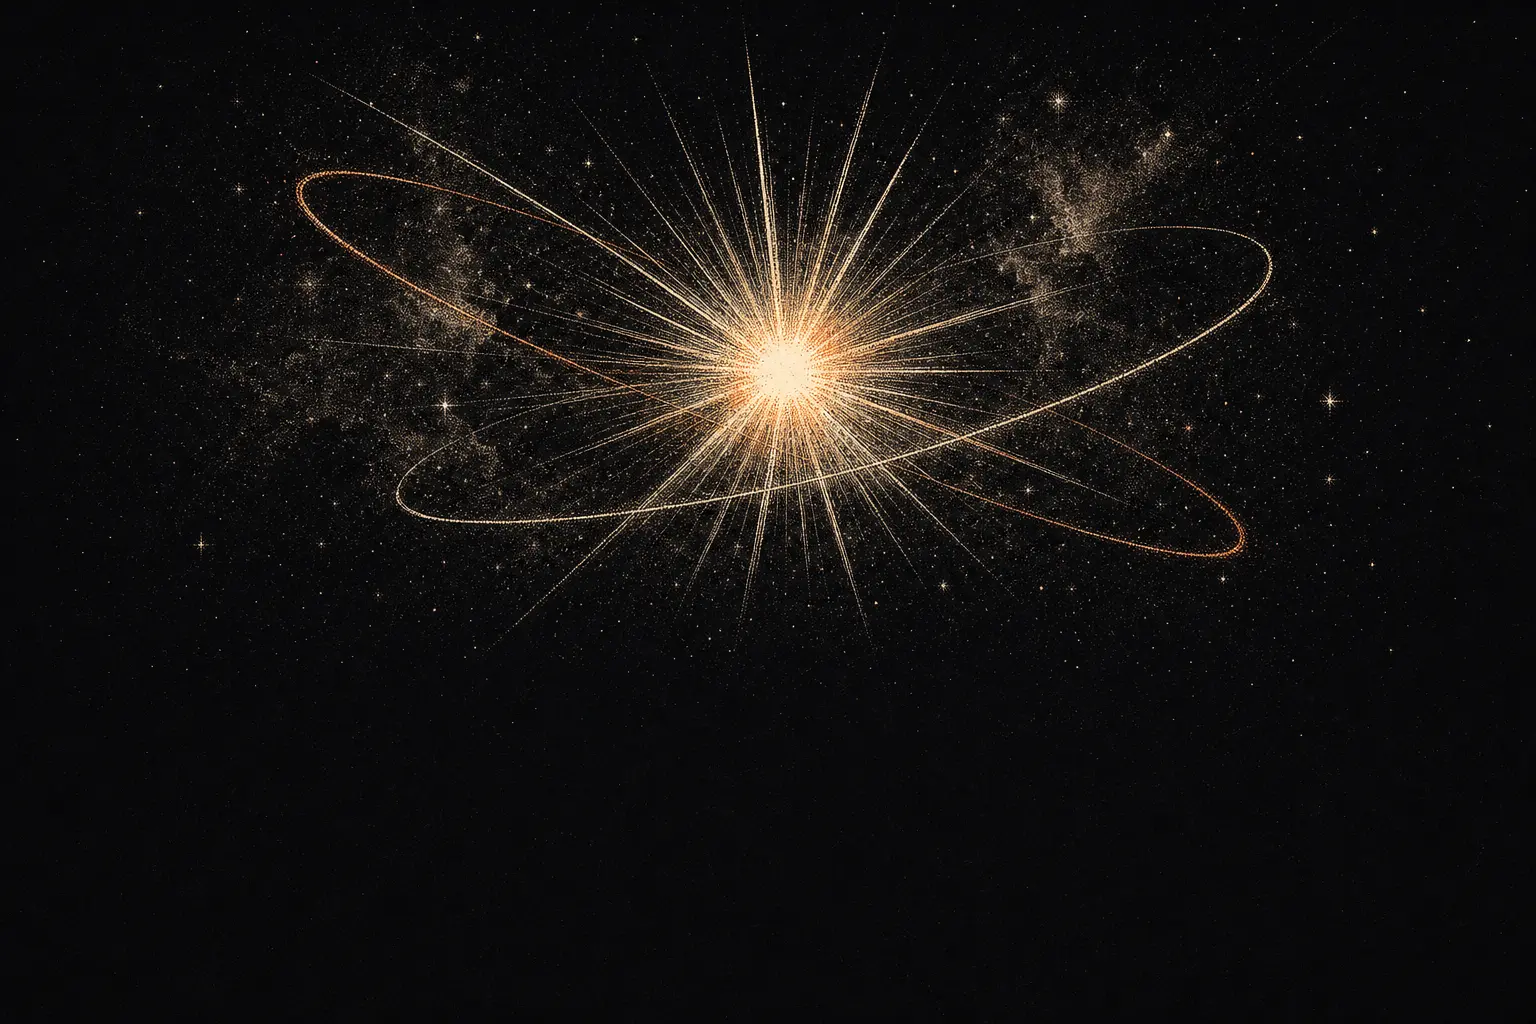
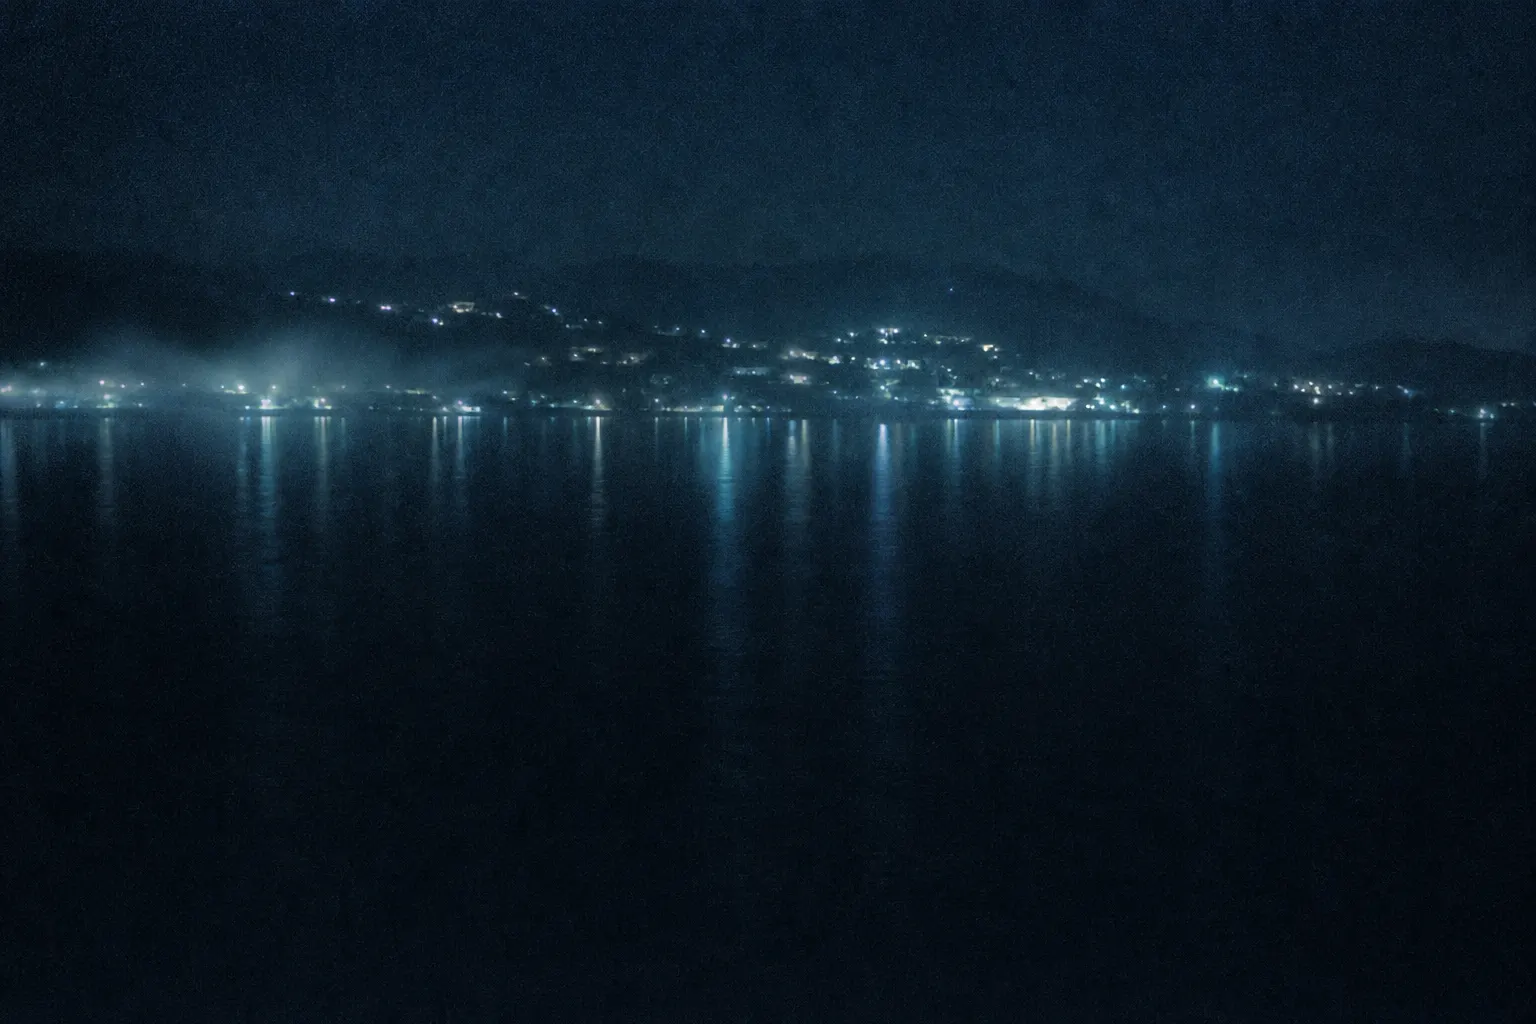
Night Lights theme: misty bay-town artwork, midnight blue + petrol
Gerry Mulligan 'Night Lights' direction replacing the ember supernova:

- New hero artwork: distant lights of a small hillside town across a
  calm dark bay, soft reflections and mist, heavy film grain — deep
  midnight blue/teal, no gold, no stars (96 kB webp, painted once)
- Hero palette: midnight ink (#070b10), cool off-white type, ice-teal
  gradient italic, cool-tinted link underline / ghost border / hints
- Light surface accent: burnt sienna → petrol teal (#2b6777) across
  links, hovers, chips, focus rings; section italics in cool slate

diff --git a/src/input.css b/src/input.css
@@ -32,9 +32,9 @@
     position: relative;
     width: 100%;
     min-height: 100svh;
-    color: #f1ece1;
+    color: #edf2f5;
     isolation: isolate;
-    background: #0b0a09;
+    background: #070b10;
     overflow: hidden;
     display: flex;
     /* Graphic-tee composition: the print owns the upper half, the
@@ -53,8 +53,8 @@
     pointer-events: none;
     background: linear-gradient(
       180deg,
-      rgba(11, 10, 9, 0) 0%,
-      rgba(11, 10, 9, 0.55) 55%,
+      rgba(7, 11, 16, 0) 0%,
+      rgba(7, 11, 16, 0.55) 55%,
       #fbfaf7 100%
     );
     z-index: 3;
@@ -75,7 +75,7 @@
     inset: 0;
     background-image: url("/hero-art.webp");
     background-size: cover;
-    background-position: center 0%;
+    background-position: center 30%;
     animation: hero-breathe 36s ease-in-out infinite alternate;
     will-change: transform;
   }
@@ -92,15 +92,15 @@
     background:
       linear-gradient(
         180deg,
-        rgba(11, 10, 9, 0.1) 0%,
-        rgba(11, 10, 9, 0) 30%,
-        rgba(11, 10, 9, 0.42) 62%,
-        rgba(11, 10, 9, 0.72) 100%
+        rgba(7, 11, 16, 0.25) 0%,
+        rgba(7, 11, 16, 0) 30%,
+        rgba(7, 11, 16, 0.35) 62%,
+        rgba(7, 11, 16, 0.66) 100%
       ),
       radial-gradient(
         ellipse 130% 100% at 50% 0%,
-        rgba(11, 10, 9, 0) 60%,
-        rgba(11, 10, 9, 0.5) 100%
+        rgba(7, 11, 16, 0) 60%,
+        rgba(7, 11, 16, 0.45) 100%
       );
   }
 
@@ -132,7 +132,7 @@
     font-weight: 500;
     letter-spacing: -0.01em;
     font-size: 1.1rem;
-    color: #f1ece1;
+    color: #edf2f5;
     text-decoration: none;
     display: inline-flex;
     align-items: center;
@@ -141,7 +141,7 @@
   .hero-hud-brand .hero-infinity {
     width: 22px;
     height: 14px;
-    stroke: #cfc4ae;
+    stroke: #a9bfcb;
   }
   .hero-hud-nav {
     display: flex;
@@ -179,7 +179,7 @@
     line-height: 1.14;
     letter-spacing: -0.025em;
     margin: 0 0 1rem;
-    color: #f7f3ea;
+    color: #f3f7f9;
   }
   .hero-headline em {
     font-style: italic;
@@ -188,7 +188,7 @@
     display: inline-block;
     padding: 0 0.1em 0.12em 0.02em;
     margin: 0 -0.04em -0.12em 0;
-    background: linear-gradient(120deg, #f3e9d2 0%, #d9b27e 100%);
+    background: linear-gradient(120deg, #e7f0f3 0%, #9cc2cf 100%);
     -webkit-background-clip: text;
     background-clip: text;
     color: transparent;
@@ -198,17 +198,17 @@
   .hero-body {
     font-size: clamp(1rem, 1.5vw, 1.15rem);
     line-height: 1.6;
-    color: rgba(238, 230, 214, 0.7);
+    color: rgba(216, 229, 238, 0.72);
     max-width: 30rem;
     margin: 0 auto;
   }
   .hero-link {
-    color: rgba(248, 243, 232, 0.95);
+    color: rgba(240, 247, 250, 0.95);
     text-decoration: none;
     background-image: linear-gradient(
       90deg,
-      rgba(217, 178, 126, 0.7),
-      rgba(217, 178, 126, 0.25)
+      rgba(146, 186, 200, 0.7),
+      rgba(146, 186, 200, 0.25)
     );
     background-repeat: no-repeat;
     background-size: 100% 1px;
@@ -230,8 +230,8 @@
     align-items: center;
     gap: 0.6rem;
     padding: 0.8rem 1.4rem;
-    color: #161310;
-    background: #f2ede1;
+    color: #0d1318;
+    background: #edf2f5;
     border-radius: 0.6rem;
     font-weight: 500;
     font-size: 0.95rem;
@@ -250,11 +250,11 @@
   .hero-cta--ghost {
     color: rgba(255, 255, 255, 0.85);
     background: transparent;
-    border: 1px solid rgba(238, 226, 200, 0.22);
+    border: 1px solid rgba(196, 218, 228, 0.22);
     box-shadow: none;
   }
   .hero-cta--ghost:hover {
-    border-color: rgba(238, 226, 200, 0.5);
+    border-color: rgba(196, 218, 228, 0.5);
     background: rgba(255, 255, 255, 0.04);
     box-shadow: none;
   }
@@ -268,7 +268,7 @@
     font-size: 0.72rem;
     letter-spacing: 0.28em;
     text-transform: uppercase;
-    color: rgba(232, 222, 200, 0.5);
+    color: rgba(202, 219, 229, 0.5);
     display: inline-flex;
     flex-direction: column;
     align-items: center;
@@ -281,8 +281,8 @@
     height: 34px;
     background: linear-gradient(
       180deg,
-      rgba(232, 222, 200, 0.6),
-      rgba(232, 222, 200, 0)
+      rgba(202, 219, 229, 0.6),
+      rgba(202, 219, 229, 0)
     );
     animation: hero-pulse 2.4s ease-in-out infinite;
   }
@@ -400,7 +400,7 @@
   /* Same italic-gradient treatment as the hero headline but on light. */
   .blog-em {
     font-style: italic;
-    color: #a08b76;
+    color: #7e93a0;
     padding-right: 0.06em; /* italic overhang breathing room */
   }
   .blog-section-sub {
@@ -423,7 +423,7 @@
   }
 
   .blog-link {
-    color: #a8542c;
+    color: #2b6777;
     text-decoration: none;
     background-image: linear-gradient(currentColor, currentColor);
     background-repeat: no-repeat;
@@ -432,7 +432,7 @@
     transition: color 140ms ease, background-size 140ms ease;
   }
   .blog-link:hover {
-    color: #74381c;
+    color: #1b4a55;
     background-size: 100% 2px;
   }
 
@@ -601,11 +601,11 @@
     background: rgba(20, 24, 48, 0.03);
   }
   a.blog-entry-link:hover .blog-entry-title {
-    color: #a8542c;
+    color: #2b6777;
   }
   a.blog-entry-link:hover .blog-entry-arrow {
     transform: translate(3px, -3px);
-    color: #a8542c;
+    color: #2b6777;
   }
   .blog-entry.is-draft .blog-entry-link {
     cursor: default;
@@ -670,7 +670,7 @@
     padding-top: 0.45rem;
   }
   a.press-entry-link:hover .press-outlet {
-    color: #a8542c;
+    color: #2b6777;
   }
   @media (max-width: 640px) {
     .press-entry-link {
@@ -878,8 +878,8 @@
   }
   .post-body h2 { font-size: 1.55rem; }
   .post-body h3 { font-size: 1.25rem; }
-  .post-body a { color: #a8542c; text-decoration: underline; text-decoration-thickness: 1px; text-underline-offset: 3px; }
-  .post-body a:hover { color: #74381c; }
+  .post-body a { color: #2b6777; text-decoration: underline; text-decoration-thickness: 1px; text-underline-offset: 3px; }
+  .post-body a:hover { color: #1b4a55; }
   .post-body code {
     font-family: ui-monospace, SFMono-Regular, Menlo, Consolas, monospace;
     font-size: 0.92em;
@@ -1038,8 +1038,8 @@
     font-size: 0.66rem;
     letter-spacing: 0.22em;
     text-transform: uppercase;
-    color: #a8542c;
-    background: rgba(168, 84, 44, 0.09);
+    color: #2b6777;
+    background: rgba(43, 103, 119, 0.1);
     border-radius: 999px;
   }
   .media-card-title {
@@ -1143,7 +1143,7 @@
     font-size: 0.68rem;
     letter-spacing: 0.22em;
     text-transform: uppercase;
-    color: #a8542c;
+    color: #2b6777;
     background: rgba(20, 24, 48, 0.06);
     border-radius: 999px;
     margin-bottom: 0.9rem;
@@ -1311,7 +1311,7 @@
     font-variant-numeric: tabular-nums;
     font-family: ui-monospace, SFMono-Regular, Menlo, monospace;
     font-size: 0.85rem;
-    color: #a8542c;
+    color: #2b6777;
   }
   .media-chapter-label {
     font-family: var(--font-display);
@@ -1329,15 +1329,15 @@
     gap: 0.5rem;
     font-size: 0.88rem;
     letter-spacing: 0.02em;
-    color: #a8542c;
+    color: #2b6777;
     text-decoration: none;
-    border-bottom: 1px solid rgba(168, 84, 44, 0.35);
+    border-bottom: 1px solid rgba(43, 103, 119, 0.35);
     padding-bottom: 1px;
     transition: color 140ms ease, border-color 140ms ease;
   }
   .media-external-link:hover {
-    color: #74381c;
-    border-color: #74381c;
+    color: #1b4a55;
+    border-color: #1b4a55;
   }
 
   .media-tags {
@@ -1385,7 +1385,7 @@ body { background: #fbfaf7; }
   }
   .blog-archive-cta:hover .blog-archive-cta-arrow {
     transform: translateX(4px);
-    color: #a8542c;
+    color: #2b6777;
   }
   .blog-archive-cta--subtle {
     background: transparent;
@@ -1470,8 +1470,8 @@ body { background: #fbfaf7; }
     transition: border-color 140ms ease, box-shadow 140ms ease;
   }
   .archive-search:focus-within {
-    border-color: #a8542c;
-    box-shadow: 0 0 0 4px rgba(168, 84, 44, 0.13);
+    border-color: #2b6777;
+    box-shadow: 0 0 0 4px rgba(43, 103, 119, 0.14);
   }
   .archive-search svg {
     width: 16px;
@@ -1577,8 +1577,8 @@ body { background: #fbfaf7; }
     font-size: 0.68rem;
     letter-spacing: 0.18em;
     text-transform: uppercase;
-    color: #a8542c;
-    background: rgba(168, 84, 44, 0.09);
+    color: #2b6777;
+    background: rgba(43, 103, 119, 0.1);
     border-radius: 999px;
   }
 }
